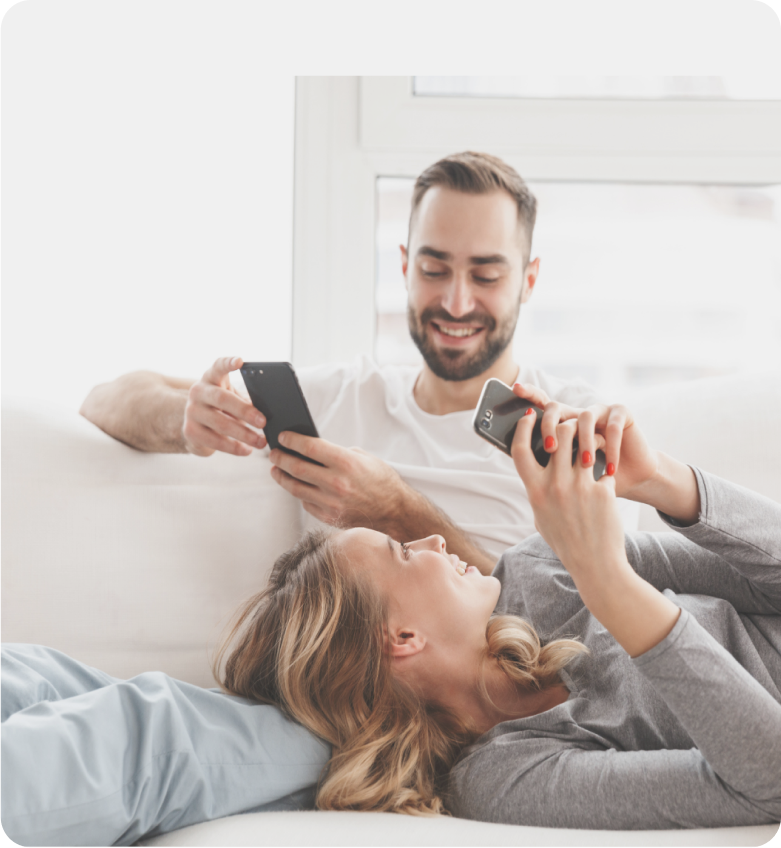
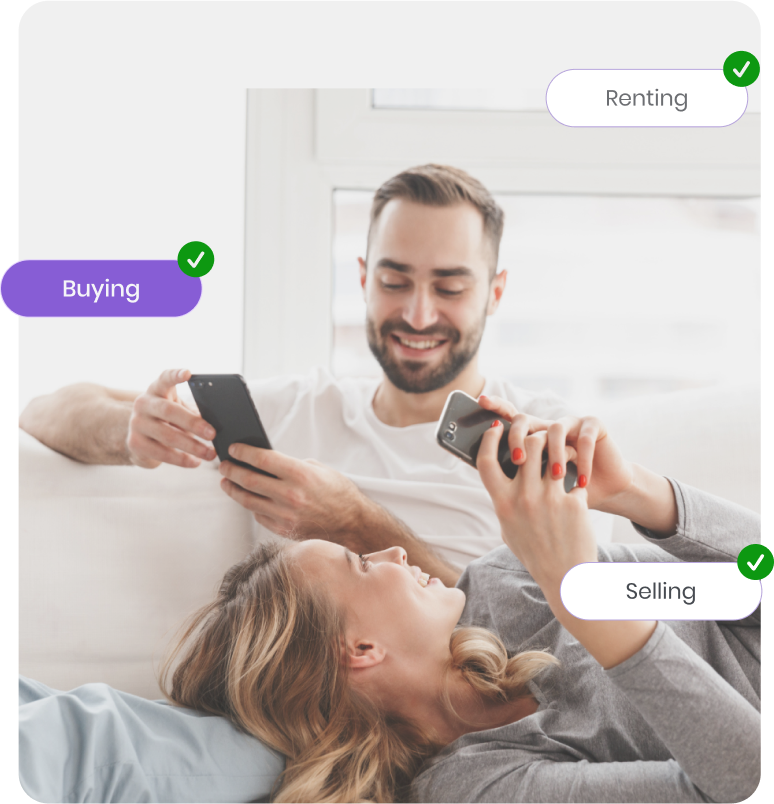
mobile done

diff --git a/src/components/WaitingList.tsx b/src/components/WaitingList.tsx
@@ -4,7 +4,7 @@ import React, {useState} from "react";
 
 const WaitingList: React.FC = () => {
     const [email, setEmail] = useState("");
-    const [showSuccess, setShowSuccess] = useState(false);
+    const [showSuccess, setShowSuccess] = useState(true);
     const [showError, setShowError] = useState(false); 
 
 
@@ -38,21 +38,21 @@ const WaitingList: React.FC = () => {
         }
       };
     return (
-<div className="w-full h-[25vh] flex flex-col items-center justify-between md:p-4 lg:p-10 rounded-[30px] bg-blur-white shadow-list-shadow 
-border-[1px] border-transparent relative ">
+<div className="w-full h-[38vh] flex flex-col items-center justify-between rounded-[30px] bg-blur-white shadow-list-shadow 
+border-[1px] border-transparent relative p-4 ">
 
-<h3 className="font-semibold text-[36px] text-center">Join our waitlist</h3>
+<h3 className="font-semibold text-xl text-center">Join our waitlist</h3>
 
-<div className="relative w-full font-poppins">
+<div className=" w-full h-[24vh] font-poppins flex flex-col justify-between items-center">
     <input
-      className="h-[80px] w-full p-4 border-2 rounded-[200px] text-[20px] border-border-gray" 
+      className="h-[60px] w-full p-4 border-2 rounded-[200px] text-l border-border-gray " 
       type="email"
       placeholder="Enter email"
       value={email}
       onChange={(e) => setEmail(e.target.value)}
     />
     <button
-      className="absolute top-1/2 right-0 transform -translate-y-1/2 w-[200px] h-[80px] rounded-[200px] bg-black text-white text-xl border border-black drop-shadow-xl"
+      className="transform -translate-y-1/2 w-[280px] h-[60px] rounded-[100px] bg-black text-white text-l border border-black drop-shadow-xl"
       onClick={handleSubmit}
     >
       Notify me
@@ -62,7 +62,7 @@ border-[1px] border-transparent relative ">
              {/* Success Popup */}
              {showSuccess && (
   <div className="fixed inset-0 bg-black bg-opacity-50 backdrop-blur-sm flex items-center justify-center z-50">
-    <div className="flex flex-col justify-between items-center h-[50vh] w-[50%] bg-white p-8 rounded-lg shadow-lg text-center font-poppins relative">
+    <div className="flex flex-col justify-between items-center h-[70vh] w-[90%] bg-white p-8 rounded-lg shadow-lg text-center font-poppins relative">
       {/* Close button in top-right corner */}
       <button
         className="absolute top-4 right-4 text-2xl font-bold text-light-black"
@@ -71,9 +71,9 @@ border-[1px] border-transparent relative ">
         X
       </button>
 
-      <img src="/src/assets/images/LogoPopUp.svg" alt="" />
+      <img className="w-[50%]" src="/src/assets/images/LogoPopUp.svg" alt="" />
 
-      <h1 className="text-4xl font-bold text-light-black">
+      <h1 className="text-2xl font-bold text-light-black">
         You are on our list!
       </h1>
 

diff --git a/src/components/Home.tsx b/src/components/Home.tsx
@@ -1,23 +1,22 @@
 import React from "react";
 import OurOffer from "./OurOffer";
 import WaitingList from "./WaitingList"
-import Buying from '../assets/images/buying.svg'
-import Renting from '../assets/images/renting.svg'
-import Selling from '../assets/images/selling.svg'
+
 
 
 const Home: React.FC = () => {
   return (
-    <div className="w-screen h-screen bg-custom-bg bg-cover bg-center relative">
-      {/* Content Section */}
-      <div className="w-full h-[78vh] flex flex-row justify-between items-center px-8 py-4">
-        {/* Left Section */}
-        <div className="w-1/2 h-[70vh] flex flex-col items-start justify-between text-black space-y-6 p-4">
-          {/* Logo */}
-          <img className="w-[28%]" src="/src/assets/logo/Logo.svg" alt="Logo" />
+    <div className="w-screen min-h-screen bg-custom-bg bg-cover bg-center relative">
 
+      {/* Content Section */}
+      <div className="w-full h-auto flex flex-col justify-between items-start px-2 py-4">
+
+        {/* Left Section */}
+        <div className="w-full h-[70vh] flex flex-col items-start justify-between text-black space-y-6 p-4">
+          {/* Logo */}
+          <img className="w-[25%] " src="/src/assets/logo/Logo.svg" alt="Logo" />
           {/* Heading */}
-          <h1 className="w-[70%] leading-100 font-poppins font-bold text-6xl ">
+          <h1 className="w-full leading-10 font-poppins font-bold text-[40px] ">
             Smarter Deals for Modern Living
           </h1>
 
@@ -27,22 +26,25 @@ const Home: React.FC = () => {
           </div>
         </div>
 
+
+
         {/* Right Section */}
-        <div className="w-1/2 flex items-center justify-center relative">
+        <div className="w-full flex items-center justify-center mt-12">
           <img
             src="/src/assets/images/waiting-list.png"
             alt="Waiting List"
-            className="max-w-full h-[70vh] "
+            className="max-w-full "
           />
 
-       <img src={Buying} alt="buying" className="absolute left-[2px] top-[200px]" />
-       <img src={Renting} alt="buying" className="absolute right-[-15px] top-[80px]" />
-       <img src={Selling} alt="buying" className="absolute right-[-15px] top-[380px]" />
+  
         </div>
       </div>
 
+<div className="w-full" >
+<OurOffer />
 
-  <OurOffer />
+</div>
+
 
 
 

diff --git a/src/components/OurOffer.tsx b/src/components/OurOffer.tsx
@@ -1,29 +1,26 @@
 import React from "react";
 
-
-
 const OurOffer: React.FC = () => {
-return(
-
-    <div className="absolute h-[24vh] flex flex-col items-center justify-between left-[10px] bottom-[15px] right-[10px]  rounded-[40px] bg-gradient-to-t from-white to-white/0 p-4">
-       <div className=" flex flex-row justify-between align-center font-poppins px-4">
-       <h1 className="text-black text-3xl font-bold p-8 ">Our Offer: </h1>
-      <span className="w-[45%] p-4 text-start text-xl text-light-gray leading-36 md:text-lg md:p-2">At FlexDown, precision is our promise in every property we handle. We believe that attention to detail make all the difference, weather your're buying selling or investing.</span>
-
-       </div>
-
-
-
-<div className="flex items-center justify-center p-2 mt-[-35px]">
-<span className="mt-4 text-center text-l font-bol text-gray md:mt-0">2025 FlexDown - All rights reserved</span>
-</div>
- 
-
+  return (
+    <div className="w-full h-auto flex flex-col items-start justify-between bg-gradient-to-t from-white to-white/0 rounded-[40px] px-2">
+      {/* Offer Text */}
+      <div className="w-full font-poppins space-y-4 px-2">
+        <h1 className="text-black text-2xl font-bold ">Our Offer:</h1>
+        <p className="text-start text-l text-light-gray-400 leading-relaxed pb-4">
+          At FlexDown, precision is our promise in every property we handle. We
+          believe that attention to detail makes all the difference, whether
+          you're buying, selling, or investing.
+        </p>
       </div>
-      
 
-
-);
+      {/* Footer Section */}
+      <div className="w-full md:w-1/3 flex justify-center items-center mt-4 md:mt-0">
+        <span className="text-center text-gray-500 text-sm">
+          © 2025 FlexDown - All rights reserved
+        </span>
+      </div>
+    </div>
+  );
 };
 
 export default OurOffer;

diff --git a/tailwind.config.js b/tailwind.config.js
@@ -38,7 +38,7 @@ export default {
             },
  
       lineHeight: {
-        '10': '120px',
+        '10': '60px',
         '36': '36px',
       },
       backgroundImage: {
